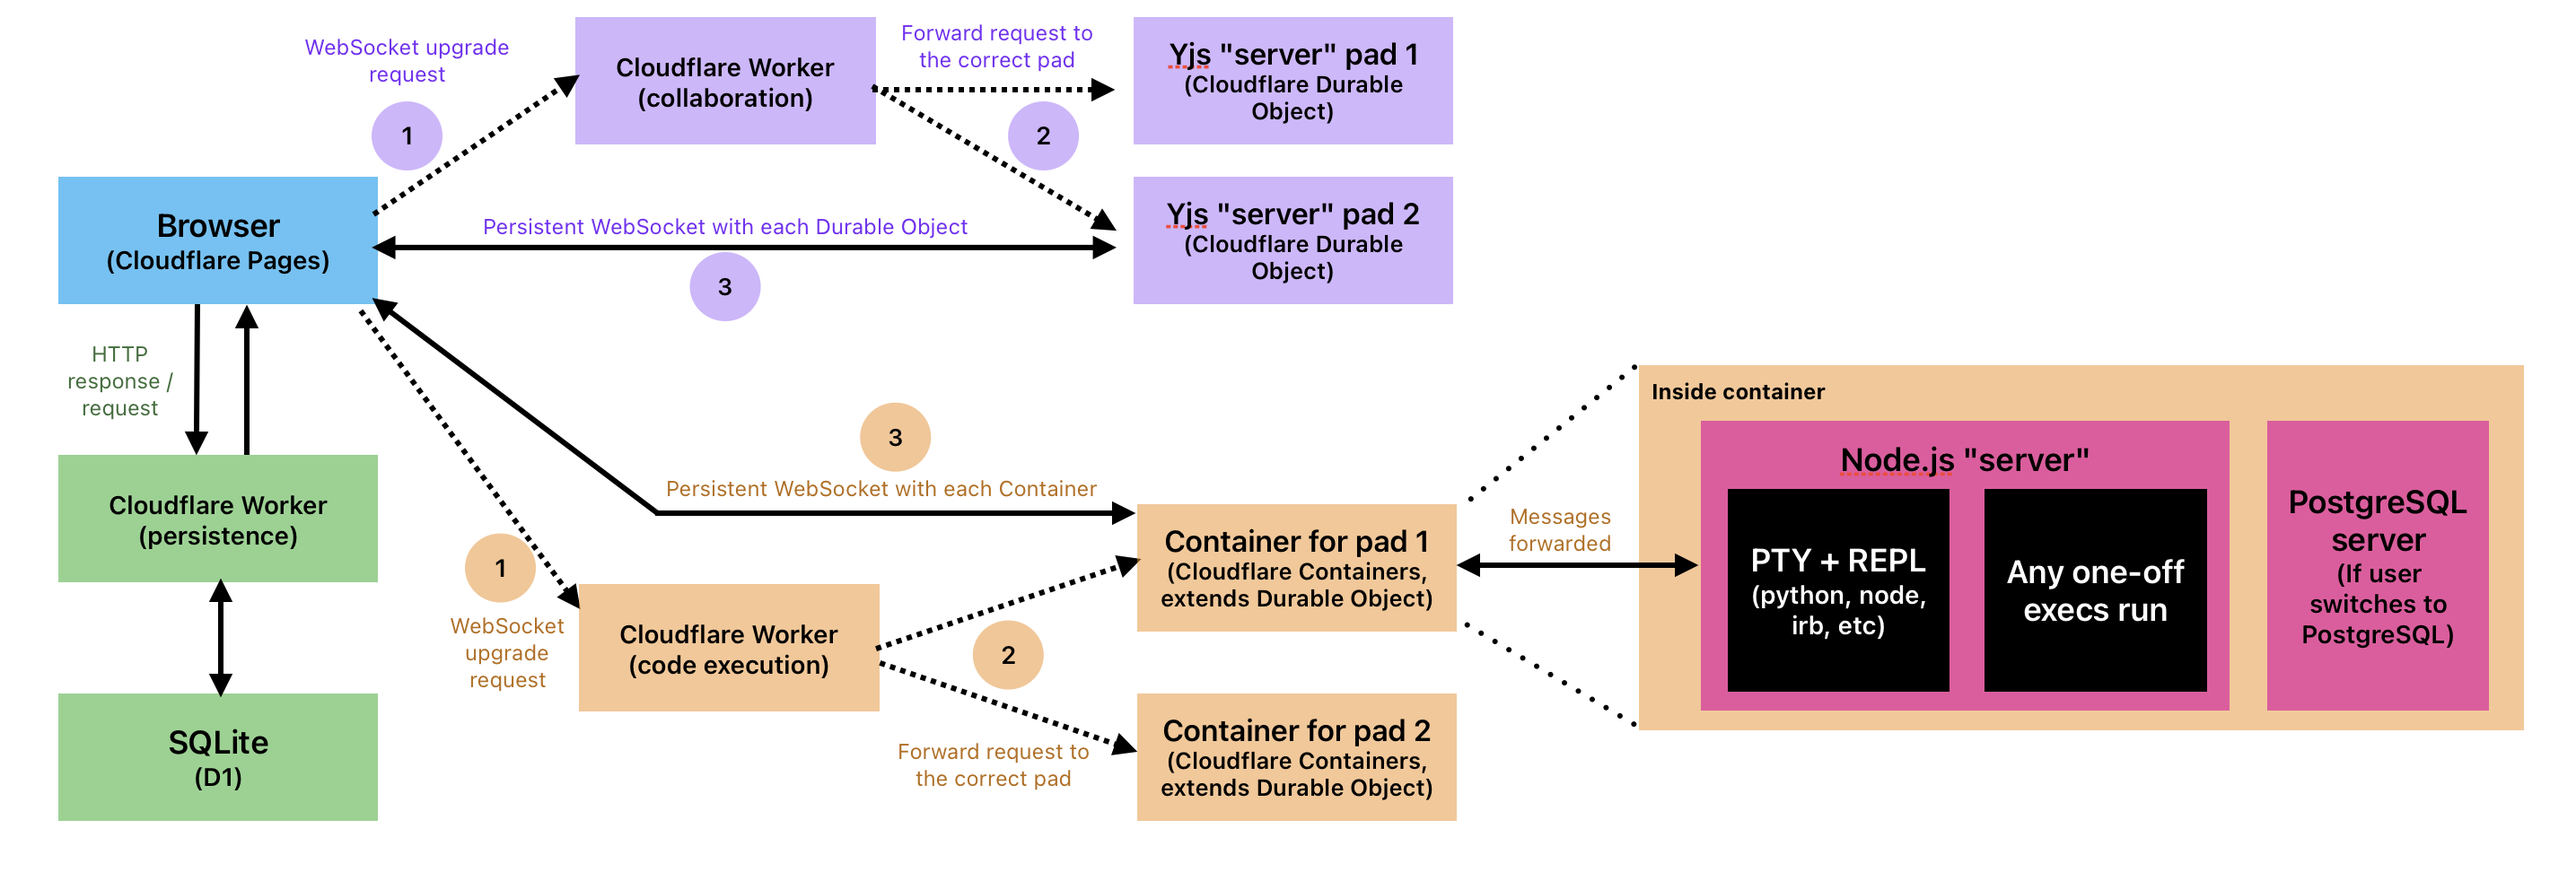
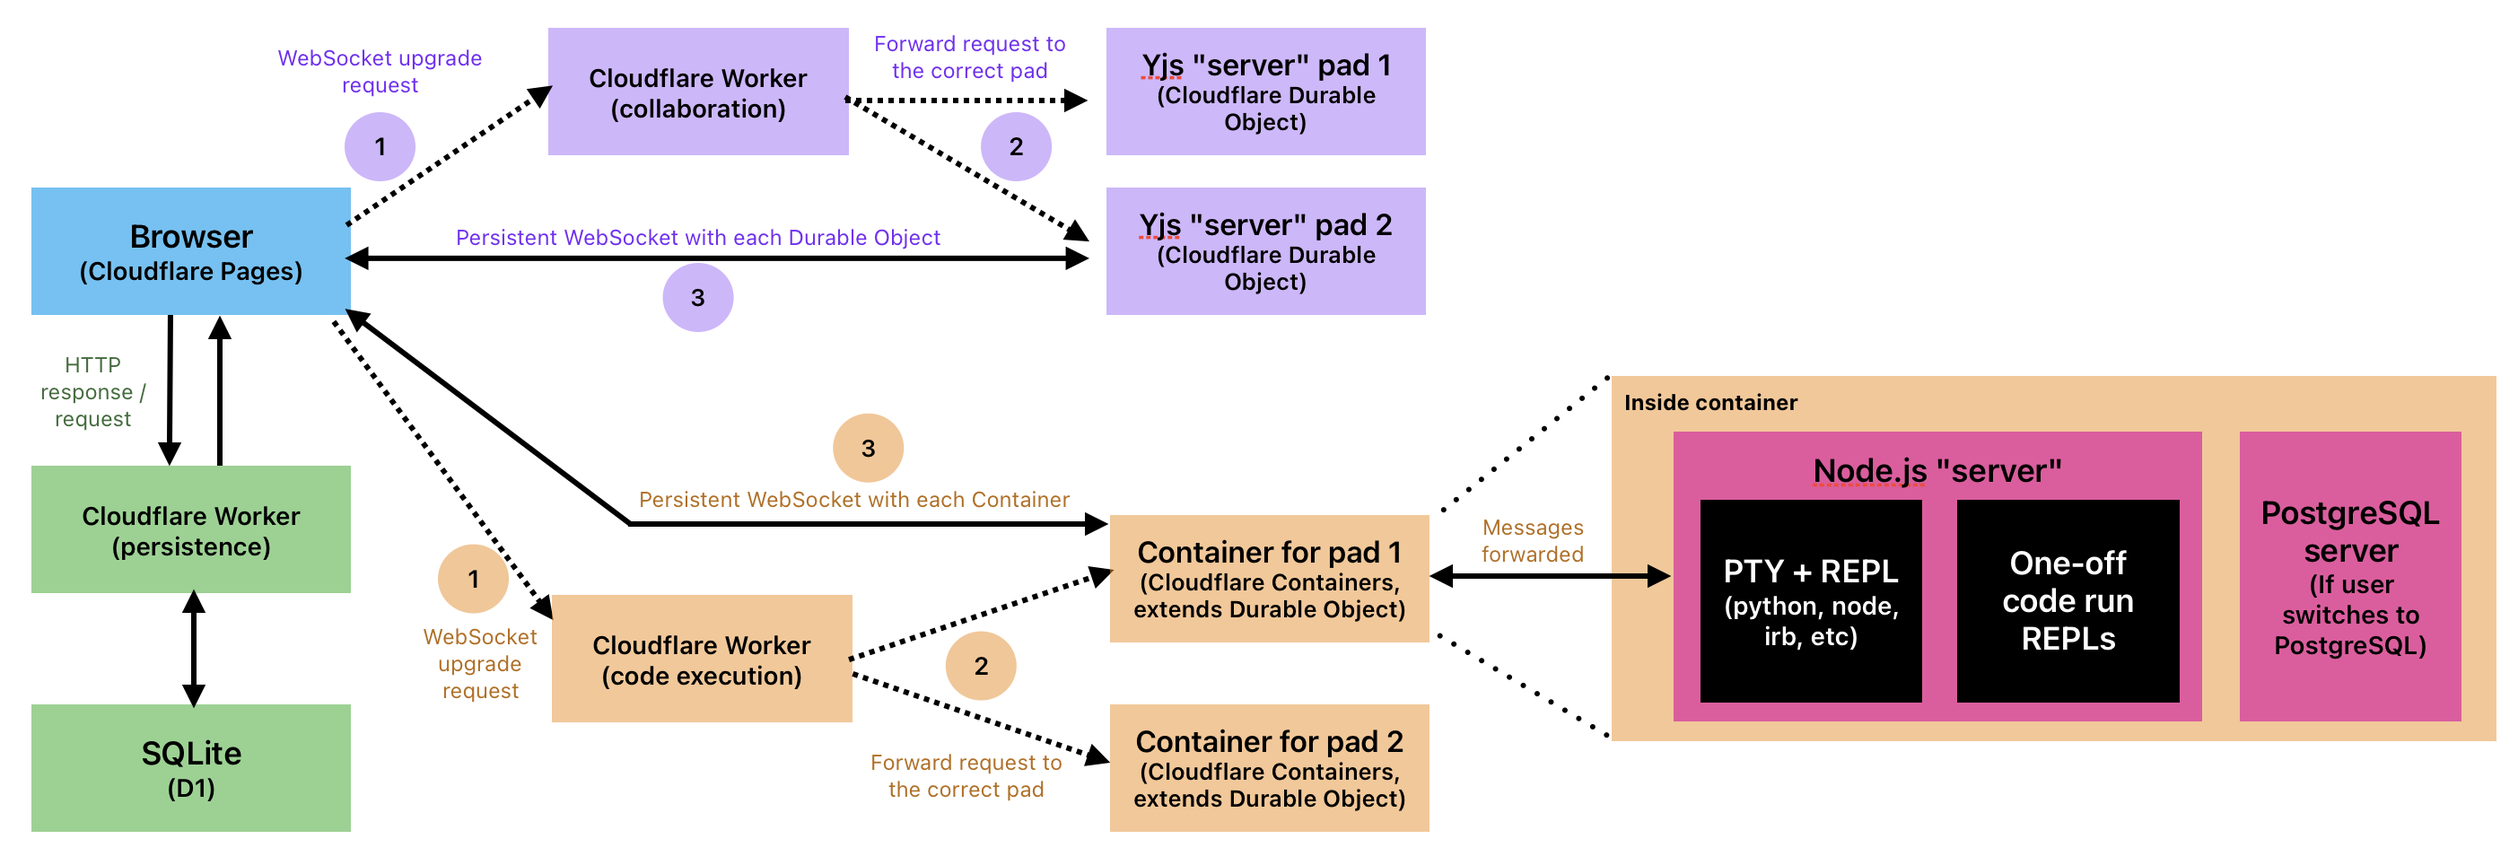
Sets up stdin for one-off code execution, i.e. if user runs code using Python's input

Changed region(s): [[0.0, 0.0, 0.9922, 0.9647]]

diff --git a/workers/execution/container/server.js b/workers/execution/container/server.js
@@ -47,13 +47,18 @@ class PadSession {
   }
 
   handleInput(data) {
-    if (!this.stream) return;
+    const target = this.runStream || this.stream;
+
+    if (!target) return;
     // No need to broadcast change to others users as it echos (is caught by handleOutput)
 
     // If REPL input has a newline, then it will automatically trigger code run
     // Too complex to set timeout here since it gets cleared prematurely in handleOutput
     // Otherwise, REPL will just accummulate input
-    this.stream.write(data);
+
+    // This function now routes input either to the runStream REPL, ex: if we use input() with Python
+    // or to the main REPL
+    target.write(data);
   }
 
   handleOutput() {
@@ -159,6 +164,12 @@ class PadSession {
 
       // Kill the PTY process
       this.ptyManager.killPtyProcess(this.stream);
+    }
+
+    // If for some reason there is still a one-off run process, kill it too
+    if (this.runStream) {
+      this.ptyManager.killOneOffProcess(this.runStream);
+      this.runStream = null;
     }
   }
 

diff --git a/docs/ARCHITECTURE.md b/docs/ARCHITECTURE.md
@@ -161,6 +161,8 @@ Cloudflare starts and stops the VM. We do not create, start, or kill containers 
 
 REPL output is suppressed for the duration of the run so PTY echo does not interleave with the one-off output. This used to be a plain `child_process.spawn` with stdin closed and stdout/stderr piped, which is simpler and needs no pty allocation. It broke down because stdout and stderr are two independent pipes: reading them separately meant interleaved writes to both could reach the client out of order. A PTY has a single file descriptor, so everything a process writes lands on it in the order the kernel actually saw it, which is why one-off runs moved onto `node-pty` too — see [A PTY for Run, not a pipe](#a-pty-for-run-not-a-pipe) below.
 
+Because the one-off process is a real PTY, it can receive input the same way the REPL does. `PadSession`'s `#handleInput` routes typed keystrokes to whichever PTY is currently live, either the run's REPL, if one is in progress, or the main REPL's otherwise, so Python's `input()` or Ruby's `gets` inside a Run can be answered live.
+
 **Language switch:** Receiving a `languageChange` message kills the current PTY and starts a new one in the same container. HTML starts no PTY. Output log is cleared.
 
 **SQL:** Postgres is not running at container start. When a user switches the language to SQL, we start the Postgres server, wait until the server is ready, and then creates a `studentdb` database owned by the `student` role. This startup only happens upon the first language change trigger, and future language switches back to SQL skip startup. The image disables TCP listen, SSL, and `/dev/shm`-backed DSM (`dynamic_shared_memory_type = mmap`) because Cloudflare Containers do not provide a usable `/dev/shm`.

diff --git a/workers/execution/README.md b/workers/execution/README.md
@@ -76,7 +76,7 @@ Cloudflare starts and stops the VM. `ReplServer` holds a single `PadSession`. Co
 | Concern | Implementation |
 |---|---|
 | REPL | `node-pty` as user `sandbox` (`python3`, `node`, `irb`, `ts-node`, `psql`), fixed at 80 cols × 40 rows |
-| Run button | A second, disposable `node-pty` process (`python3 -c`, `node -e`, …), same fixed size, killed when the run ends |
+| Run button | A second, disposable `node-pty` process (`python3 -c`, `node -e`, …), same fixed size, killed when the run ends. Has its own stdin, so `input`/`gets` work like they do in the REPL |
 | HTML | No PTY |
 | SQL first use | `pg_ctlcluster 18 main start`, `pg_isready`, then `student` / `studentdb` |
 | Health | `GET /ping` → `200 ok` (Cloudflare) |
@@ -91,7 +91,7 @@ JSON text frames. The inner server broadcasts to every connected client in that 
 
 | `type` | Fields | Effect |
 |---|---|---|
-| `input` | `data` (string) | Write to the PTY. Echo comes back as `output`. |
+| `input` | `data` (string) | Write to whichever PTY is currently live — the run's, if one is in progress, the main REPL's otherwise. Echo comes back as `output`. |
 | `languageChange` | `language` | Kill the current PTY, clear the output log, start a new PTY (no-op for `html`). |
 | `run` | `code`, `preMessage` | One-off process; REPL output suppressed until it finishes. |
 | `stop` | — | Kill the current one-off process. |
